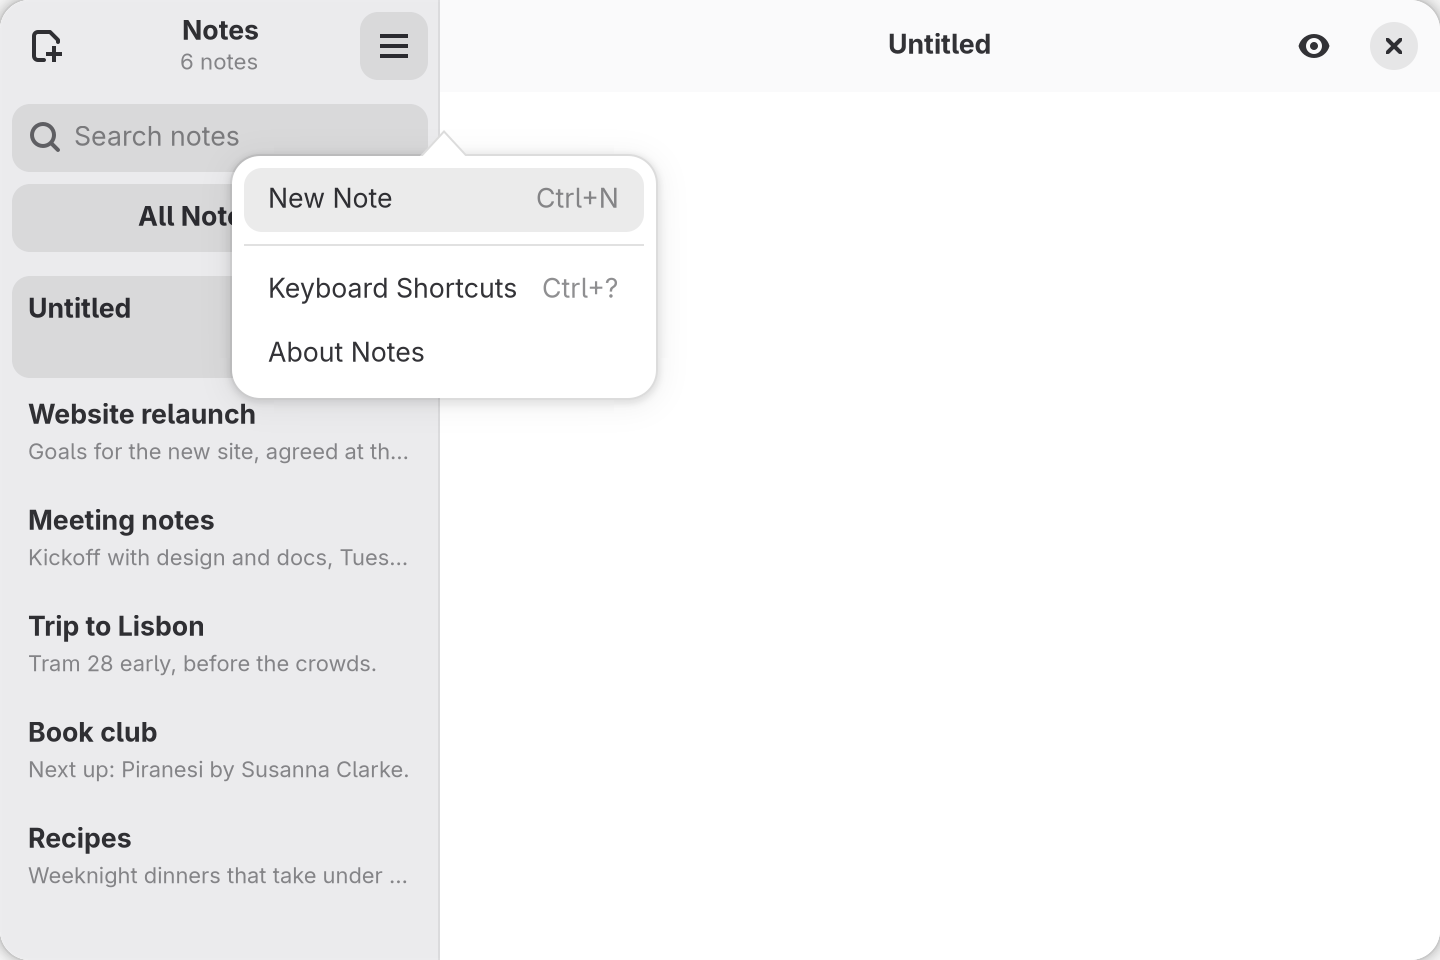
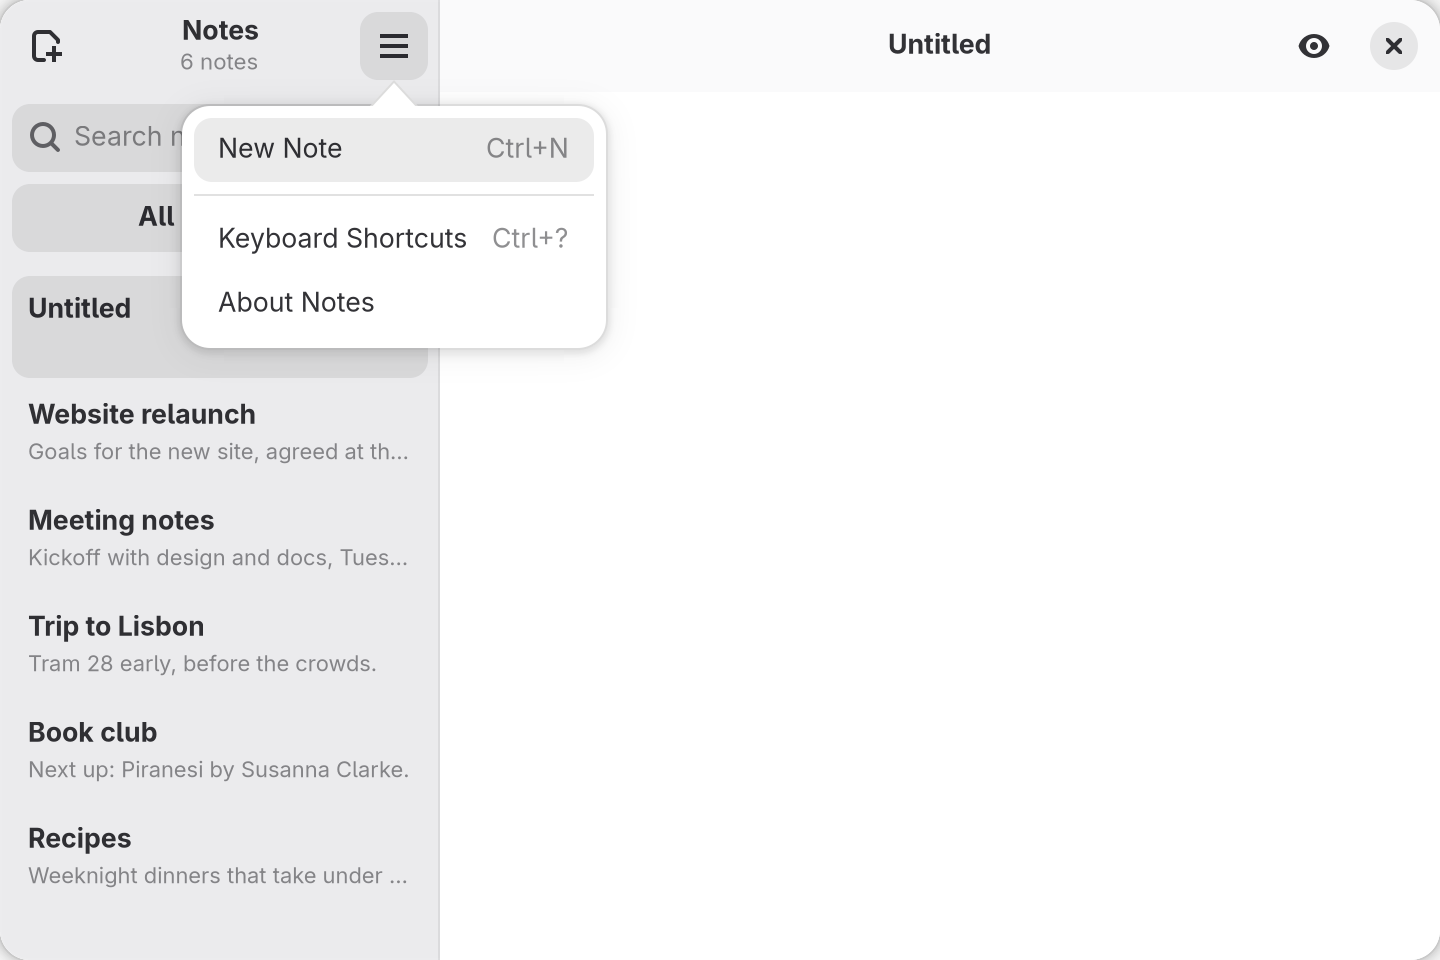
Recapture menu figures and picture popups in components

diff --git a/website/figures/capture.test.tsx b/website/figures/capture.test.tsx
@@ -8,6 +8,8 @@ import {
     AdwHeaderBar,
     AdwPreferencesGroup,
     AdwPreferencesPage,
+    AdwNavigationPage,
+    AdwNavigationSplitView,
     AdwToolbarView,
 } from "@gtkx/jsx/adw";
 import { GSimpleAction } from "@gtkx/jsx/gio";
@@ -25,6 +27,8 @@ import { MainMenu } from "./guide/actions-main-menu.js";
 import { Shortcuts } from "./guide/actions-shortcuts.js";
 import { Toolbar } from "./guide/actions-toolbar.js";
 import { EmployeeTable } from "./guide/components-column-view.js";
+import { SourceTypePicker } from "./guide/components-drop-down.js";
+import { AppMenu } from "./guide/components-menu-widget.js";
 import { Circle } from "./guide/cairo-circle.js";
 import { NameGrid } from "./guide/components-grid.js";
 import { AccentOverride } from "./guide/css-accent.js";
@@ -122,11 +126,15 @@ function ActionsWindow({
     width,
     height,
     start,
+    menu = <MainMenu />,
+    hasSidebar = false,
     children,
 }: {
     width: number;
     height: number;
     start?: ReactNode;
+    menu?: ReactNode;
+    hasSidebar?: boolean;
     children?: ReactNode;
 }) {
     return (
@@ -147,12 +155,28 @@ function ActionsWindow({
                         <GSimpleAction name="new" />
                         <GSimpleAction name="open" parameterType={GLib.VariantType.new("s")} />
                         <GSimpleAction name="preview" state={GLib.Variant.newBoolean(true)} />
+                        <GSimpleAction name="preferences" />
                         <GSimpleAction name="shortcuts" />
                         <GSimpleAction name="about" />
                     </>
                 }
             >
-                <AdwToolbarView top={<AdwHeaderBar start={start} end={<MainMenu />} />}>{children}</AdwToolbarView>
+                {hasSidebar ? (
+                    <AdwNavigationSplitView
+                        minSidebarWidth={240}
+                        sidebar={
+                            <AdwNavigationPage title="Notes">
+                                <AdwToolbarView top={<AdwHeaderBar end={menu} />} />
+                            </AdwNavigationPage>
+                        }
+                    >
+                        <AdwNavigationPage title="Welcome">
+                            <AdwToolbarView top={<AdwHeaderBar />} />
+                        </AdwNavigationPage>
+                    </AdwNavigationSplitView>
+                ) : (
+                    <AdwToolbarView top={<AdwHeaderBar start={start} end={menu} />}>{children}</AdwToolbarView>
+                )}
             </AdwApplicationWindow>
         </AdwApplication>
     );
@@ -540,6 +564,28 @@ const figures: [name: string, element: ReactNode, options?: FigureOptions][] = [
         },
     ],
     [
+        "guide-components-drop-down",
+        <SampleWindow title="DropDown">
+            <SourceTypePicker />
+        </SampleWindow>,
+        {
+            prepare: async () => {
+                await userEvent.click(screen.getByRole(Gtk.AccessibleRole.COMBO_BOX));
+                await screen.findByText("Podcast");
+            },
+        },
+    ],
+    [
+        "guide-components-menu-widget",
+        <ActionsWindow width={600} height={300} hasSidebar menu={<AppMenu />} />,
+        {
+            prepare: async () => {
+                await userEvent.click(screen.getByRole(Gtk.AccessibleRole.BUTTON, { name: "Main Menu" }));
+                await screen.findByRole(Gtk.AccessibleRole.MENU_ITEM, { name: "Preferences" });
+            },
+        },
+    ],
+    [
         "guide-components-toasts",
         <SampleWindow title="Toasts">
             <Notifications />
@@ -589,7 +635,7 @@ const figures: [name: string, element: ReactNode, options?: FigureOptions][] = [
     ],
     [
         "guide-actions-main-menu",
-        <ActionsWindow width={440} height={300} />,
+        <ActionsWindow width={600} height={300} hasSidebar />,
         {
             prepare: async () => {
                 await userEvent.click(screen.getByRole(Gtk.AccessibleRole.BUTTON, { name: "Main Menu" }));

diff --git a/website/figures/guide/components-menu-widget.tsx b/website/figures/guide/components-menu-widget.tsx
@@ -1,0 +1,61 @@
+import * as Adw from "@gtkx/gi/adw";
+import * as Gtk from "@gtkx/gi/gtk";
+import { GMenu } from "@gtkx/jsx/gio";
+import { GtkBox, GtkMenuButton, GtkToggleButton } from "@gtkx/jsx/gtk";
+import { useState } from "react";
+
+const COLOR_SCHEMES = [
+    { label: "System", scheme: Adw.ColorScheme.DEFAULT },
+    { label: "Light", scheme: Adw.ColorScheme.FORCE_LIGHT },
+    { label: "Dark", scheme: Adw.ColorScheme.FORCE_DARK },
+];
+
+const ThemeSelector = () => {
+    const [first, setFirst] = useState<Gtk.ToggleButton | null>(null);
+
+    return (
+        <GtkBox
+            cssClasses={["linked"]}
+            halign={Gtk.Align.CENTER}
+            marginTop={6}
+            marginBottom={6}
+        >
+            {COLOR_SCHEMES.map(({ label, scheme }, index) => (
+                <GtkToggleButton
+                    key={label}
+                    ref={index === 0 ? setFirst : undefined}
+                    group={index === 0 ? undefined : (first ?? undefined)}
+                    label={label}
+                    active={index === 0}
+                    onClicked={() =>
+                        Adw.StyleManager.getDefault().setColorScheme(scheme)
+                    }
+                />
+            ))}
+        </GtkBox>
+    );
+};
+
+export const AppMenu = () => (
+    <GtkMenuButton
+        iconName="open-menu-symbolic"
+        tooltipText="Main Menu"
+        menuModel={
+            <GMenu
+                items={[
+                    { section: [{ custom: "theme" }] },
+                    {
+                        section: [
+                            {
+                                label: "Preferences",
+                                action: "win.preferences",
+                                accel: "<Control>comma",
+                            },
+                        ],
+                    },
+                ]}
+            />
+        }
+        customChildren={{ theme: <ThemeSelector /> }}
+    />
+);

diff --git a/website/figures/guide/components-drop-down.tsx b/website/figures/guide/components-drop-down.tsx
@@ -1,0 +1,22 @@
+import { DropDown } from "@gtkx/components";
+import * as Gtk from "@gtkx/gi/gtk";
+import { useState } from "react";
+
+const SOURCE_TYPES = ["Book", "Article", "Podcast"];
+
+export const SourceTypePicker = () => {
+    const [sourceType, setSourceType] = useState("Article");
+
+    return (
+        <DropDown
+            items={SOURCE_TYPES.map((type) => ({ id: type, value: type }))}
+            selectedId={sourceType}
+            onSelectionChanged={(id) => {
+                if (id !== null) setSourceType(id);
+            }}
+            halign={Gtk.Align.CENTER}
+            valign={Gtk.Align.START}
+            marginTop={12}
+        />
+    );
+};

diff --git a/website/v2/guide/components.md b/website/v2/guide/components.md
@@ -74,17 +74,13 @@ A row's content is not the row a screen reader announces: GTK names a list row o
 
 `DropDown<T, S>` takes `items`, or `sections` plus `renderHeader`, with single controlled selection through `selectedId` and `onSelectionChanged`. Primitive values display as labels by default; `null` and `undefined` leave the display empty. Objects and other structured values require `renderItem`, which draws both the selected value and the popup rows. Use `renderListItem` to override only the popup rows.
 
-```tsx
-import { DropDown } from "@gtkx/components";
+<<< @/figures/guide/components-drop-down.tsx [src/source-type-picker.tsx]
 
-<DropDown
-    items={SOURCE_TYPES.map((type) => ({ id: type, value: type }))}
-    selectedId={sourceType}
-    onSelectionChanged={(id) => {
-        if (id !== null) setSourceType(id);
-    }}
-/>
-```
+<figure class="result">
+    <img class="result-light" src="/figures/guide-components-drop-down-light.png" width="360" height="260" loading="lazy" alt="A window titled DropDown with a drop-down button reading Article and its popup open below, listing Book, Article with a check mark, and Podcast." />
+    <img class="result-dark" src="/figures/guide-components-drop-down-dark.png" width="360" height="260" loading="lazy" alt="A window titled DropDown with a drop-down button reading Article and its popup open below, listing Book, Article with a check mark, and Podcast." />
+    <figcaption>Captured from the sample above after clicking the drop-down.</figcaption>
+</figure>
 
 The callback receives `null` when the model becomes empty.
 
@@ -206,31 +202,13 @@ The switcher shows a button for each page `title`. To switch pages from state in
 
 A popover menu can show a widget in place of a menu item, as GNOME Text Editor does with its style selector. Give the item a `custom` ID and pass the widget under that ID in `customChildren` on the `GtkMenuButton`, `GtkPopoverMenu` or `GtkPopoverMenuBar` showing the menu, as GtkBuilder's `<child type="ID">` does:
 
-```tsx
-import { GMenu } from "@gtkx/jsx/gio";
-import { GtkMenuButton } from "@gtkx/jsx/gtk";
+<<< @/figures/guide/components-menu-widget.tsx [src/components/app-menu.tsx]
 
-<GtkMenuButton
-    iconName="open-menu-symbolic"
-    menuModel={
-        <GMenu
-            items={[
-                { section: [{ custom: "theme" }] },
-                {
-                    section: [
-                        {
-                            label: "Preferences",
-                            action: "win.preferences",
-                            accel: "<Control>comma",
-                        },
-                    ],
-                },
-            ]}
-        />
-    }
-    customChildren={{ theme: <ThemeSelector /> }}
-/>
-```
+<figure class="result">
+    <img class="result-light" src="/figures/guide-components-menu-widget-light.png" width="600" height="300" loading="lazy" alt="The Notes window with its main menu open: a row of linked System, Light and Dark buttons with System selected, a separator, and a Preferences item with Ctrl+,." />
+    <img class="result-dark" src="/figures/guide-components-menu-widget-dark.png" width="600" height="300" loading="lazy" alt="The Notes window with its main menu open: a row of linked System, Light and Dark buttons with System selected, a separator, and a Preferences item with Ctrl+,." />
+    <figcaption>Captured from the sample above with the menu open, in a window that declares <code>win.preferences</code>.</figcaption>
+</figure>
 
 The widget stays in its item when the model or its items change. An ID with no matching item leaves its widget out of the menu. [Menus](/v2/guide/actions#menus) covers the other item attributes, such as `hiddenWhen` and `accel`.
 

diff --git a/website/v2/guide/actions.md b/website/v2/guide/actions.md
@@ -129,8 +129,8 @@ export const NoteTab = ({
 <<< @/figures/guide/actions-main-menu.tsx [src/components/main-menu.tsx]
 
 <figure class="result">
-    <img class="result-light" src="/figures/guide-actions-main-menu-light.png" width="440" height="300" loading="lazy" alt="A window titled Notes with its main menu open below the menu button: New Note with Ctrl+N, a checked Show Preview, a separator, Keyboard Shortcuts with Ctrl+?, and About Notes." />
-    <img class="result-dark" src="/figures/guide-actions-main-menu-dark.png" width="440" height="300" loading="lazy" alt="A window titled Notes with its main menu open below the menu button: New Note with Ctrl+N, a checked Show Preview, a separator, Keyboard Shortcuts with Ctrl+?, and About Notes." />
+    <img class="result-light" src="/figures/guide-actions-main-menu-light.png" width="600" height="300" loading="lazy" alt="The Notes window with its main menu open below the menu button in the sidebar's header bar: New Note with Ctrl+N, a checked Show Preview, a separator, Keyboard Shortcuts with Ctrl+?, and About Notes." />
+    <img class="result-dark" src="/figures/guide-actions-main-menu-dark.png" width="600" height="300" loading="lazy" alt="The Notes window with its main menu open below the menu button in the sidebar's header bar: New Note with Ctrl+N, a checked Show Preview, a separator, Keyboard Shortcuts with Ctrl+?, and About Notes." />
     <figcaption>Captured from the sample above, in a window that declares its actions and their accelerators. The check mark is the state of <code>win.preview</code>.</figcaption>
 </figure>
 
